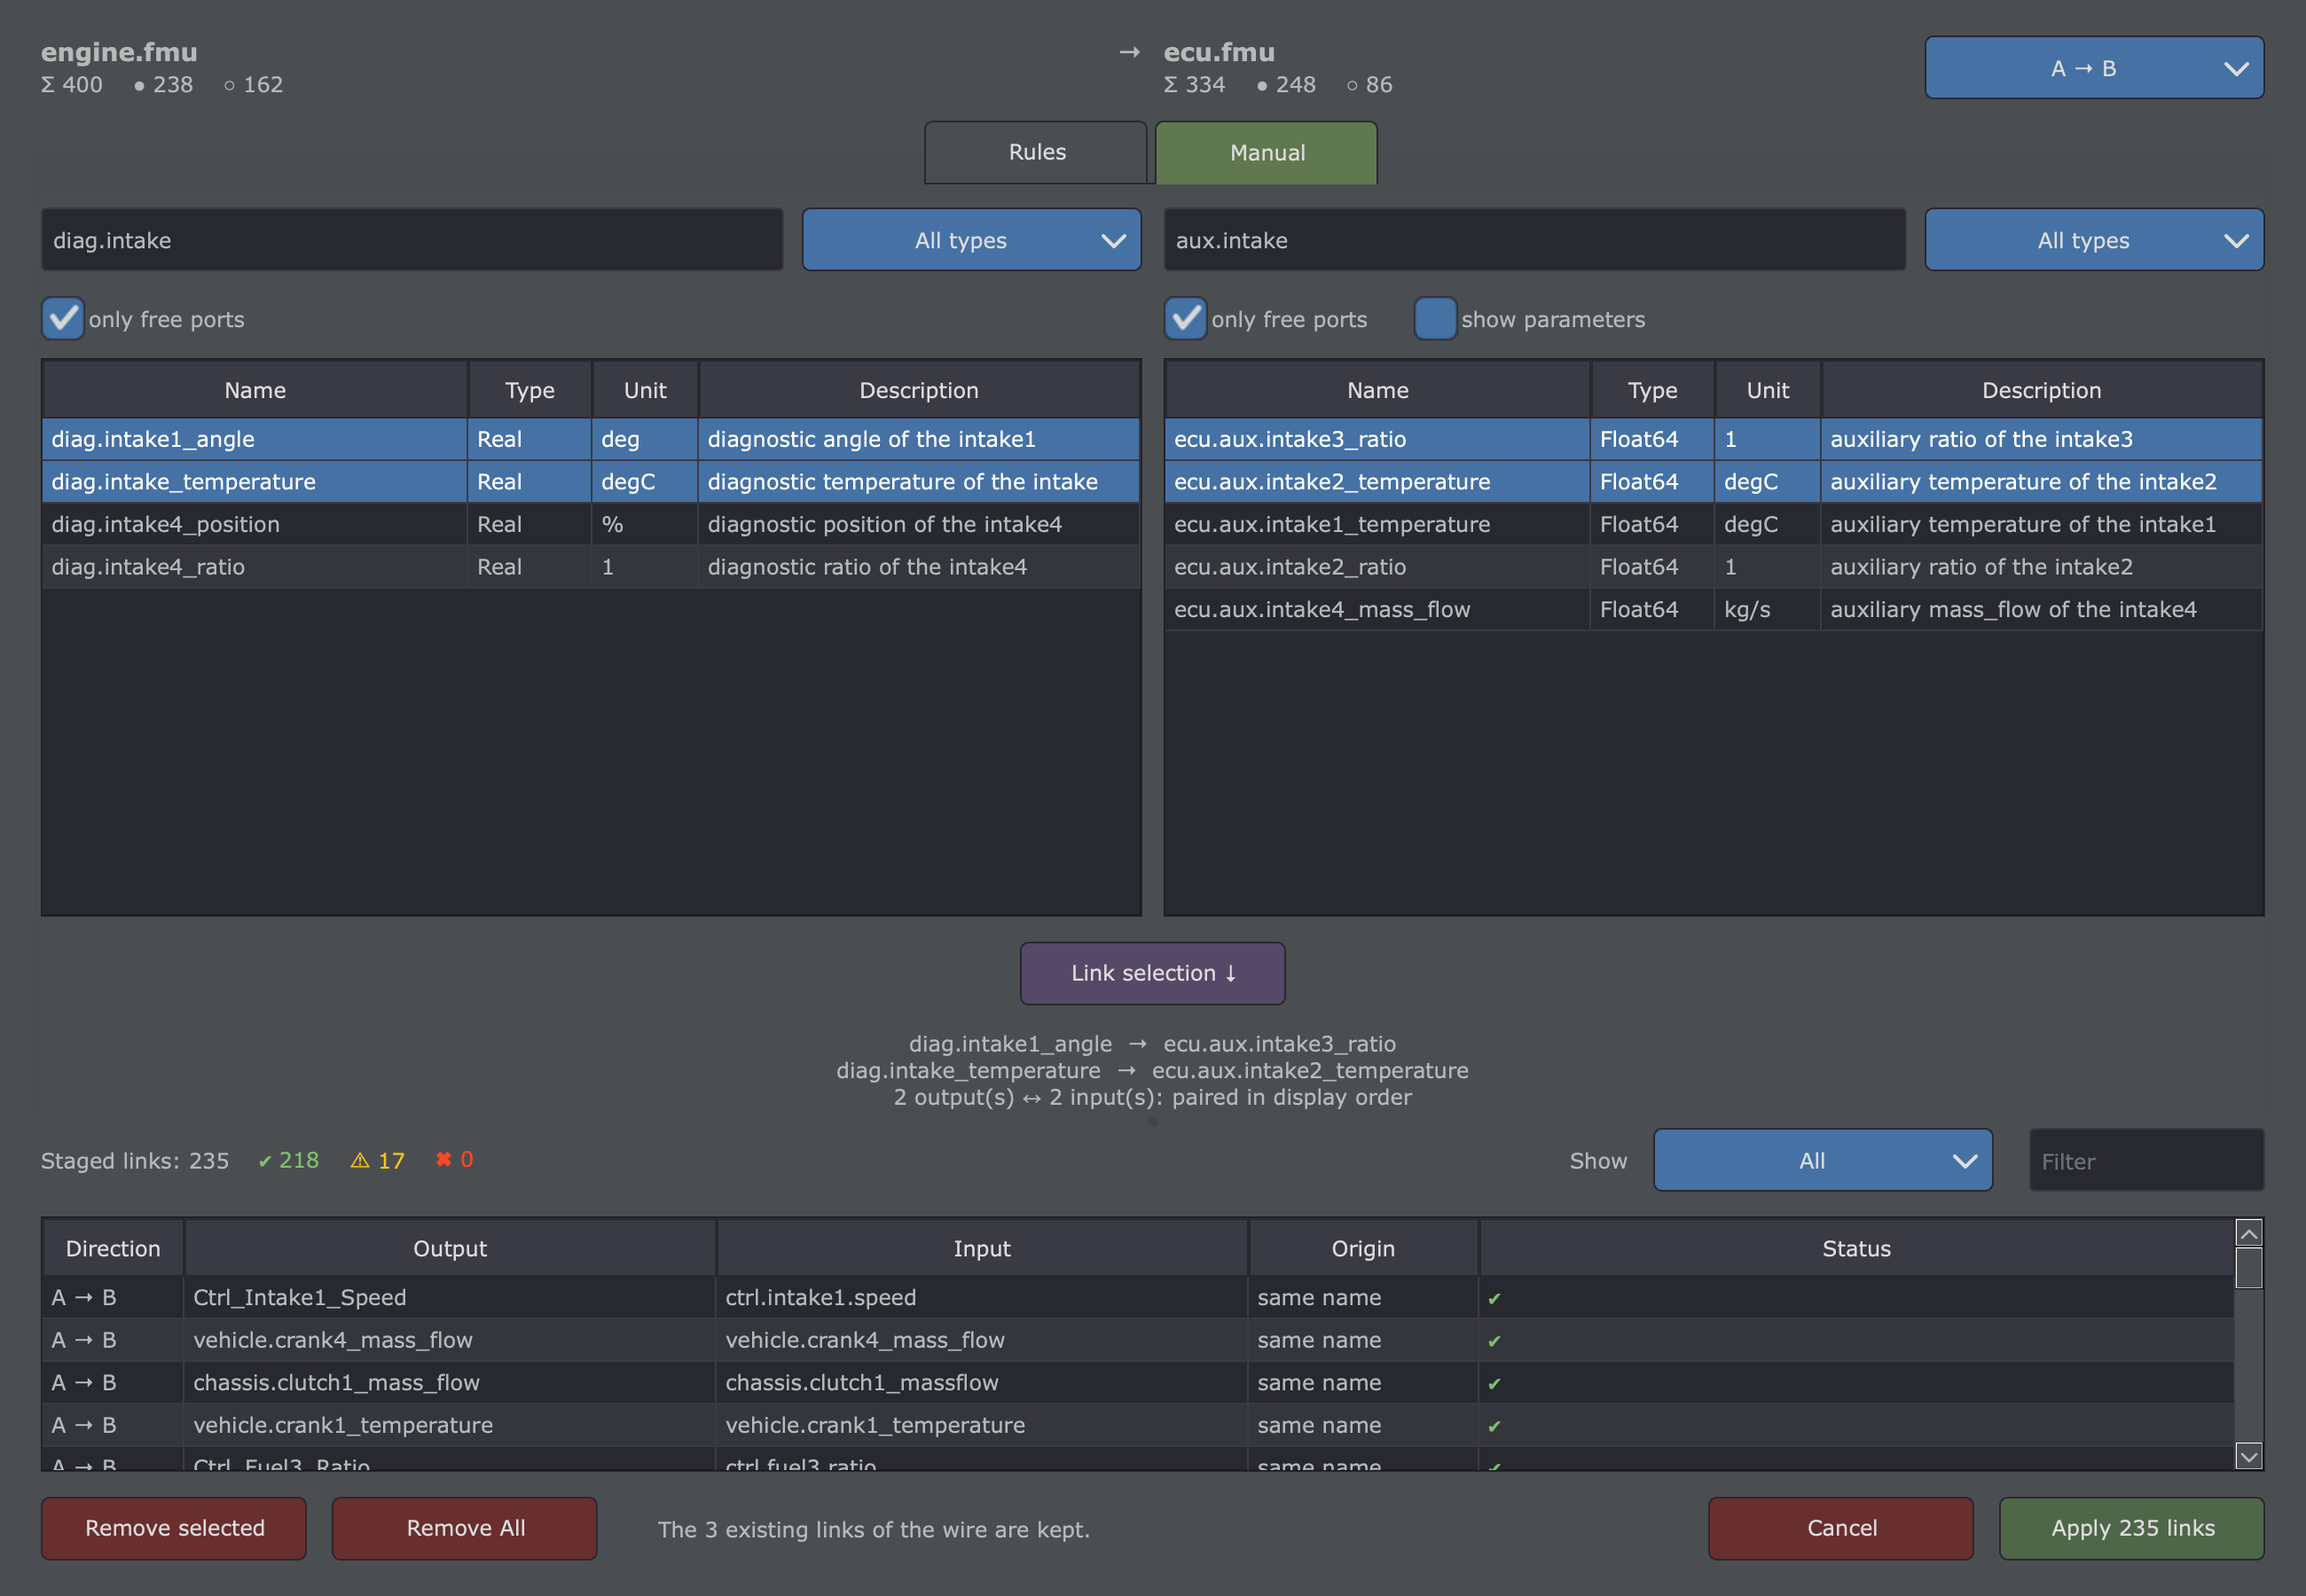
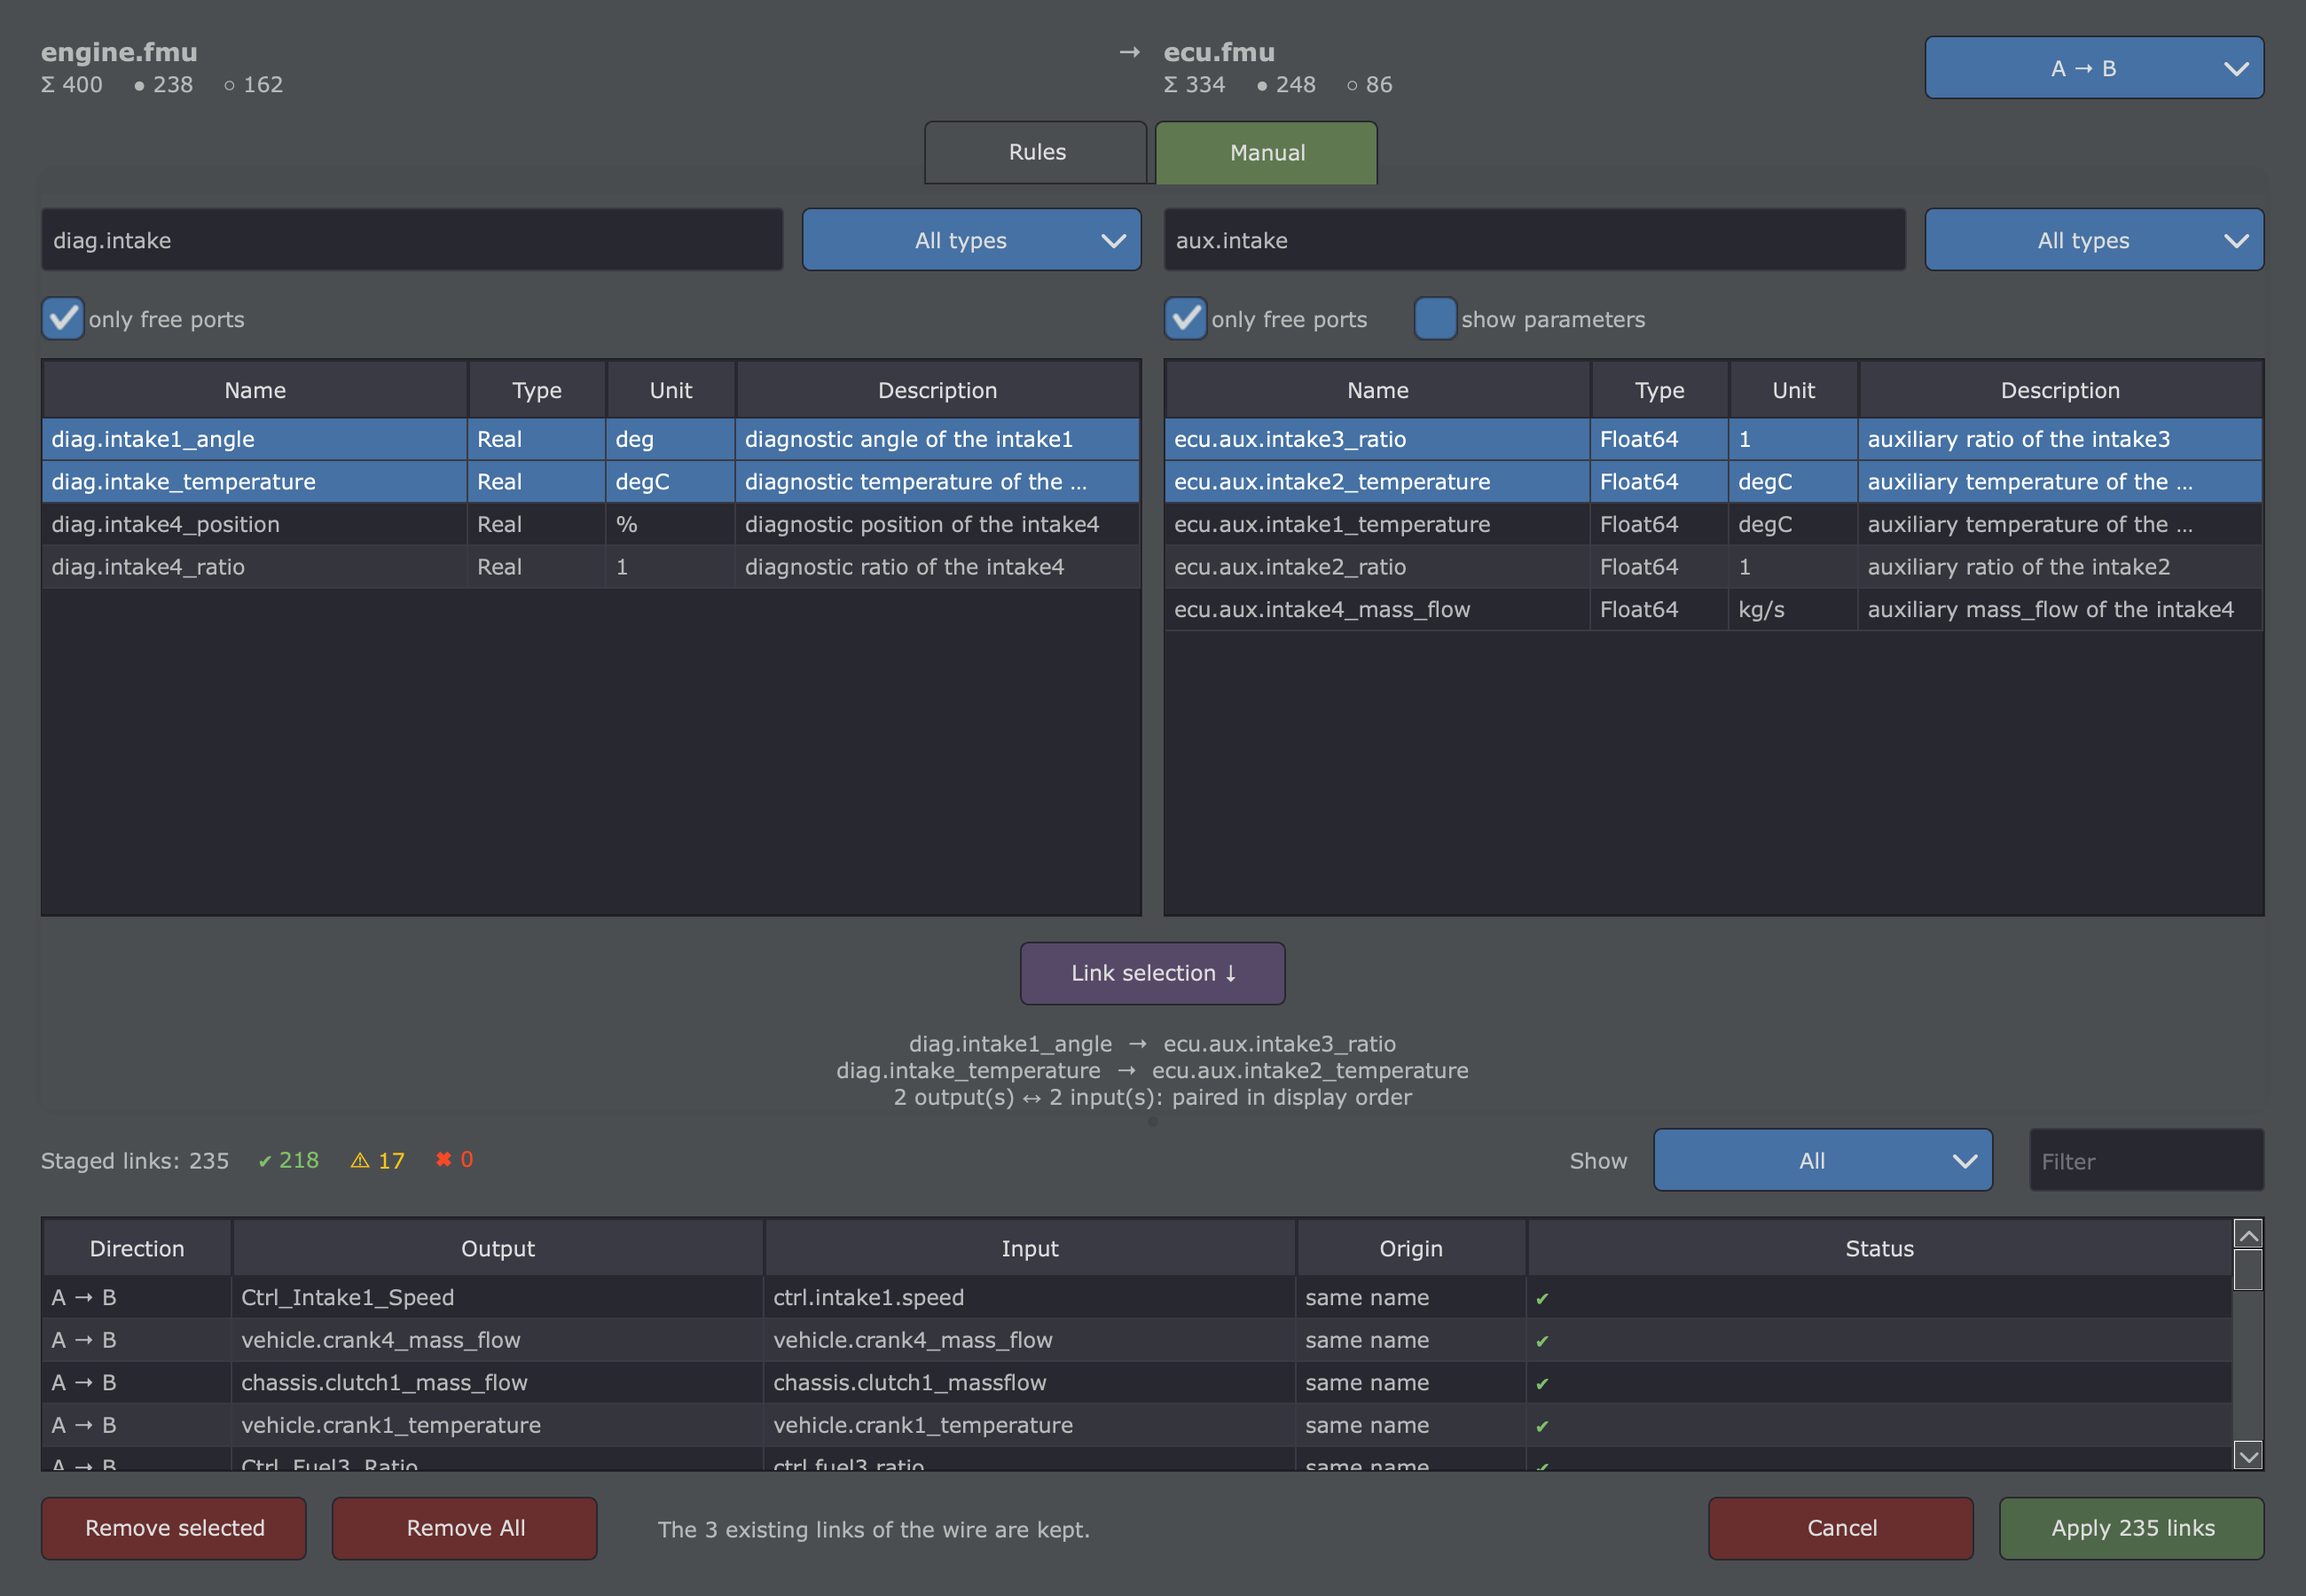
Keep the column headers of the link assistant readable on every platform
The widths of the columns were fixed in pixels, fitted on macOS: on
Windows the header "Direction" of the staged links was truncated. A
column is now never narrower than what its header needs with the fonts
and the style of the platform.

diff --git a/fmu_manipulation_toolbox/gui/fmucontainer/details/link_assistant.py b/fmu_manipulation_toolbox/gui/fmucontainer/details/link_assistant.py
@@ -315,6 +315,15 @@ def _table(model) -> QTableView:
     return table
 
 
+def _set_column_widths(table: QTableView, widths: dict[int, int]):
+    """Set the width of some columns of *table*, never below what their header needs: the fonts, the padding of the
+    style and the sort indicator differ between the platforms (the header of a column fitted on macOS is truncated
+    on Windows)."""
+    header = table.horizontalHeader()
+    for column, width in widths.items():
+        table.setColumnWidth(column, max(width, header.sectionSizeHint(column)))
+
+
 def _button(text: str, css_class: str) -> QPushButton:
     """A push button; its width is set by `_same_width` once every button of the window exists."""
     button = QPushButton(text)
@@ -647,8 +656,7 @@ class LinkAssistantDialog(QDialog):
         self._suggestions_filter.setSourceModel(self._suggestions_model)
         self._suggestions_table = _table(self._suggestions_filter)
         self._suggestions_table.setColumnWidth(0, 30)
-        for column, width in ((1, 280), (2, 70), (3, 280), (4, 70), (5, 90)):
-            self._suggestions_table.setColumnWidth(column, width)
+        _set_column_widths(self._suggestions_table, {1: 280, 2: 70, 3: 280, 4: 70, 5: 90})
         self._suggestions_table.doubleClicked.connect(self._on_suggestion_double_clicked)
 
         self._suggestions_summary = _Summary()
@@ -697,9 +705,7 @@ class LinkAssistantDialog(QDialog):
         proxy.setSourceModel(model)
         table = _table(proxy)
         table.setSelectionMode(QAbstractItemView.SelectionMode.ExtendedSelection)
-        table.setColumnWidth(0, 240)
-        table.setColumnWidth(1, 70)
-        table.setColumnWidth(2, 60)
+        _set_column_widths(table, {0: 240, 1: 70, 2: 60})
         table.selectionModel().selectionChanged.connect(self._update_preview)
 
         text = QLineEdit()
@@ -759,8 +765,7 @@ class LinkAssistantDialog(QDialog):
         self._staged_filter = _LevelFilter(lambda row: self._staged_model.statuses[row].level, self)
         self._staged_filter.setSourceModel(self._staged_model)
         self._staged_table = _table(self._staged_filter)
-        for column, width in ((0, 80), (1, 300), (2, 300), (3, 130)):
-            self._staged_table.setColumnWidth(column, width)
+        _set_column_widths(self._staged_table, {0: 80, 1: 300, 2: 300, 3: 130})
 
         self._staged_summary = _Summary()
         staged_level = _level_combo()

diff --git a/tests/gui/test_link_assistant.py b/tests/gui/test_link_assistant.py
@@ -199,3 +199,14 @@ def test_header_counters(dialog):
     fed = len(dialog._busy_inputs() & {port.name for port in inputs})
     assert dialog._counter_source.text() == f"Σ {len(outputs)}   ● {linked}   ○ {len(outputs) - linked}"
     assert dialog._counter_target.text() == f"Σ {len(inputs)}   ● {fed}   ○ {len(inputs) - fed}"
+
+
+def test_column_headers_are_not_truncated(dialog):
+    """The columns are at least as wide as their header needs, whatever the fonts and the style of the platform."""
+    tables = [dialog._suggestions_table, dialog._staged_table,
+              dialog._outputs_table, dialog._inputs_table]
+    for table in tables:
+        header = table.horizontalHeader()
+        for column in range(header.count() - 1):                # the last section is stretched
+            if table.model().headerData(column, header.orientation()):
+                assert header.sectionSize(column) >= header.sectionSizeHint(column)
